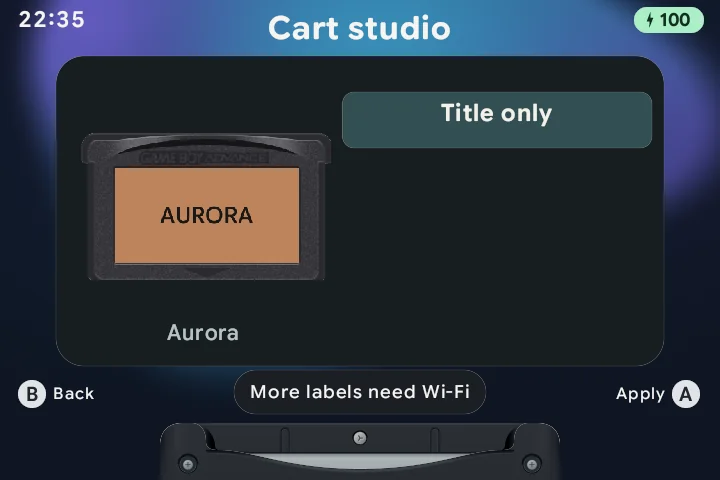
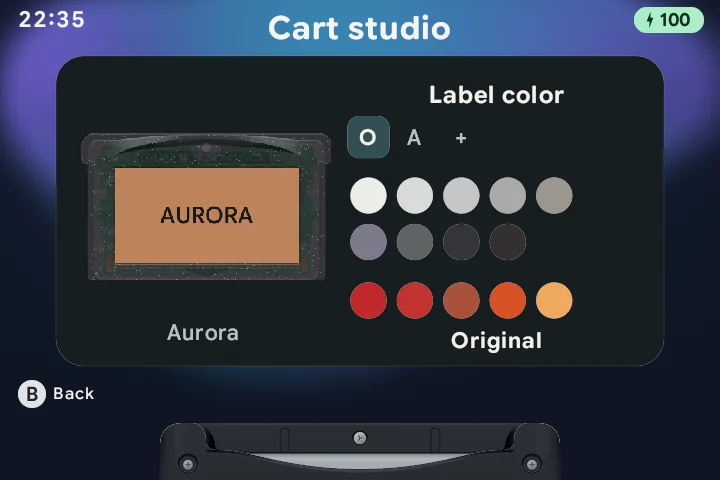
Show the on-device Cart Studio color palette

diff --git a/site/overrides/home.html b/site/overrides/home.html
@@ -73,8 +73,8 @@
         <figcaption>The GBA emulator picker in Light mode.</figcaption>
       </figure>
       <figure>
-        <img src="{{ 'assets/launcher/cart-studio-dark.webp' | url }}" width="720" height="480" loading="lazy" decoding="async" alt="Cart Studio showing a cartridge and its label choices">
-        <figcaption>Choosing a cartridge label in Dark mode.</figcaption>
+        <img src="{{ 'assets/launcher/cart-studio-dark.webp' | url }}" width="720" height="480" loading="lazy" decoding="async" alt="Cart Studio showing a glitter cartridge and the label color palette">
+        <figcaption>Picking a label color in Dark mode.</figcaption>
       </figure>
     </div>
     <a class="feature-guide" href="{{ 'features/cart-studio/' | url }}">Customize a cartridge</a>

diff --git a/WORKLOG.md b/WORKLOG.md
@@ -2,9 +2,7 @@
 
 ## Website navigation and launcher previews — 2026-11-05
 
-Branch `fix/website-motion-and-features`, based on `3b7fa80`. Stabilize the shared header and guide navigation, refresh feature copy, and show current launcher screenshots. The header uses one shared layout and a more damped selection spring. Guide selection stays on its active row, with independent hover feedback. Page slides travel a short distance and the desktop guide sidebar stays anchored. Added native launcher captures and updated home and guide copy for Cart Studio, RetroAchievements, file sharing, on-device updates, and Wi-Fi reports.
-
-Strict Zensical build, JavaScript syntax checks, and all six website CI-routing tests pass locally. Browser checks are part of the website workflow.
+Branch `fix/website-motion-and-features`, based on `3b7fa80`. Stabilize the shared header and guide navigation, refresh feature copy, and show current launcher screenshots. PR #206 covers a shared, more stable header, shorter page slides, fixed guide topic selection, and current launcher captures. The feature guides cover Cart Studio, RetroAchievements, file sharing, on-device updates, and Wi-Fi reports. The strict site build and six CI-routing tests passed locally. Browser validation runs in the website workflow. Local Chromium could not launch in this workspace.
 
 ## Cart Studio shortcut and footer — 2026-11-04
 
